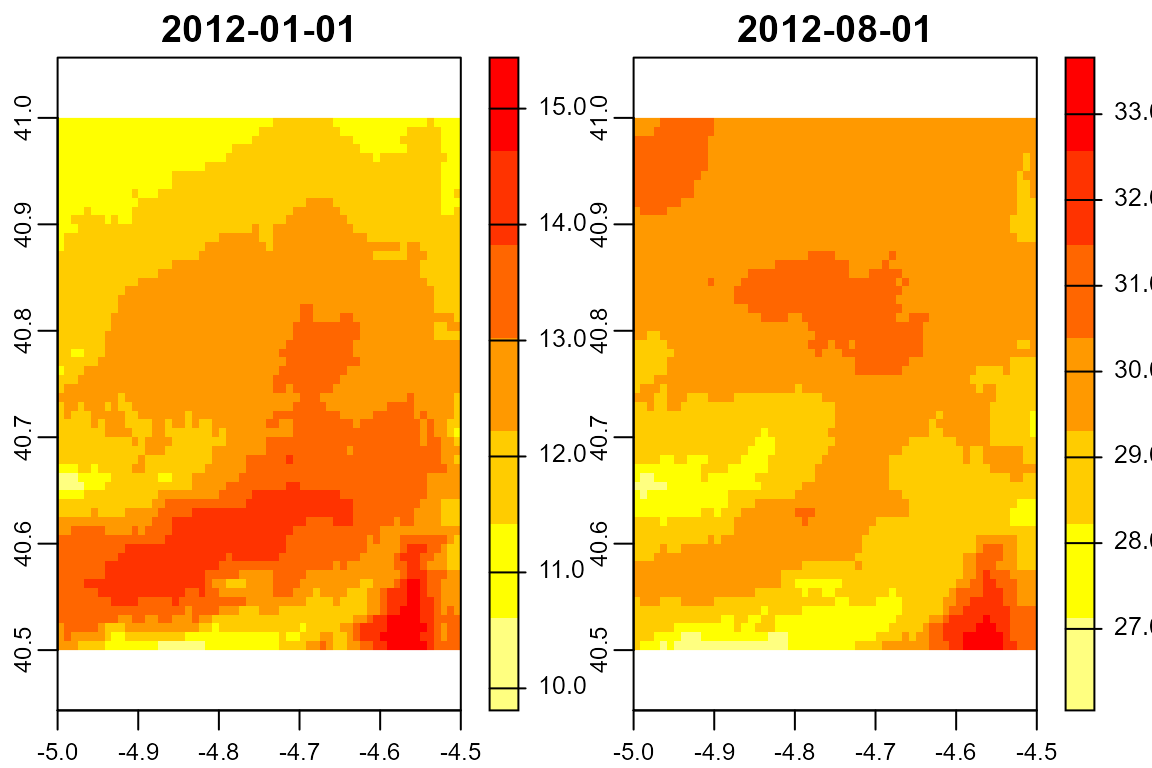
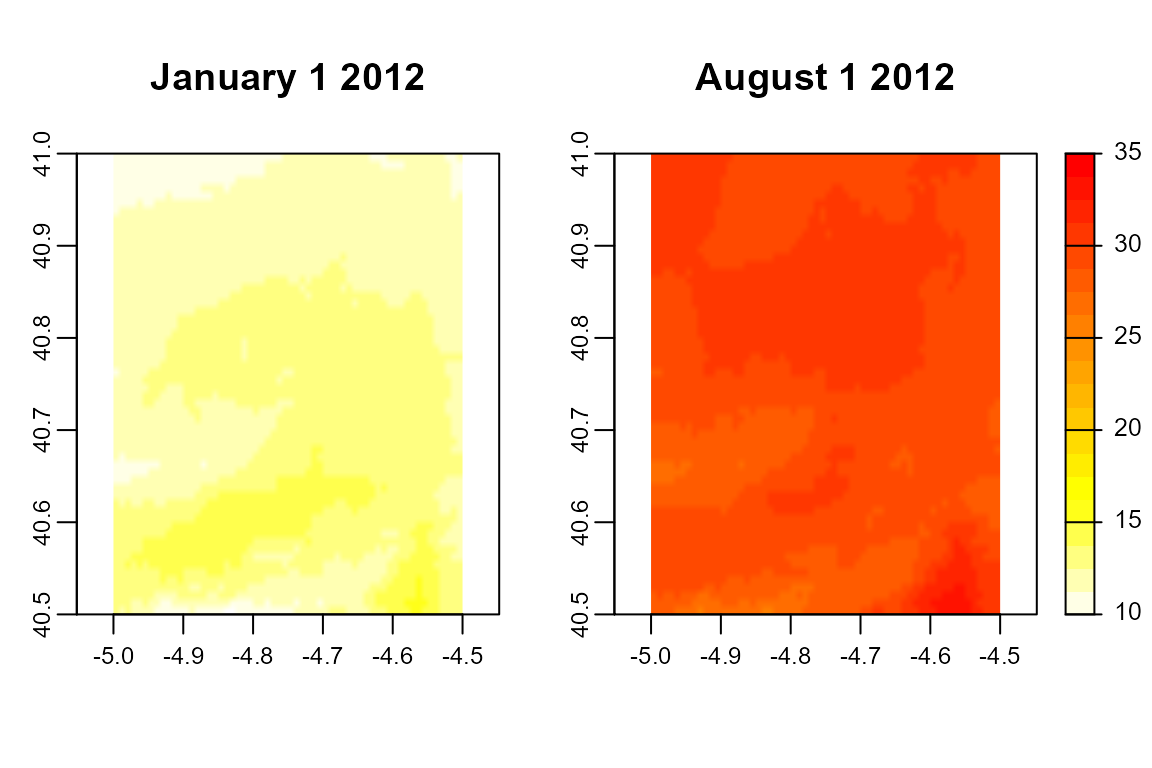
update web and check server

diff --git a/docs/articles/polygons-raster.html b/docs/articles/polygons-raster.html
@@ -95,10 +95,10 @@
 
     
     
-<p><code>easyclimate</code> aims to easily download daily climate data for a given set of points or polygons within Europe. To download and install the latest version of <code>easyclimate</code> from github follow the instructions in <a href="https://github.com/VeruGHub/easyclimate" class="uri">https://github.com/VeruGHub/easyclimate</a></p>
+<p>With <code>easyclimate</code> you can easily download daily climate data for a given set of points or polygons within Europe. To download and install the latest version of <code>easyclimate</code> from github follow the instructions in <a href="https://github.com/VeruGHub/easyclimate" class="uri">https://github.com/VeruGHub/easyclimate</a></p>
 <p><br></p>
 <p>In this tutorial we will work through the basics of using <code>easyclimate</code> with a spatial polygon.</p>
-<p>If you wish to download the climatic data of a specific region, you need to specify at least four corners of the polygon including the area and specify the type of output you want to obtain (i.e. a dataframe - “df” or a raster - “raster”). You can also provide the polygons of interest in a <code>sf</code> object.</p>
+<p>If you wish to download the climatic data of a specific region, you need to specify at least four corners of the polygon including the area and specify the type of output you want to obtain (i.e. a data frame - <code>df</code> or a raster - <code>raster</code>). You can also provide the polygons of interest in a <code>sf</code> object.</p>
 <div class="sourceCode" id="cb1"><pre class="downlit sourceCode r">
 <code class="sourceCode R"><span class="kw"><a href="https://rdrr.io/r/base/library.html">library</a></span><span class="op">(</span><span class="va"><a href="https://github.com/VeruGHub/easyclimate">easyclimate</a></span><span class="op">)</span>
 <span class="kw"><a href="https://rdrr.io/r/base/library.html">library</a></span><span class="op">(</span><span class="va"><a href="https://rspatial.org/terra">terra</a></span><span class="op">)</span>
@@ -106,7 +106,7 @@
 <span class="va">coords_t</span> <span class="op">&lt;-</span> <span class="fu"><a href="https://rdrr.io/pkg/terra/man/vect.html">vect</a></span><span class="op">(</span><span class="st">"POLYGON ((-4.5 41, -4.5 40.5, -5 40.5, -5 41))"</span><span class="op">)</span>
 
 <span class="fu"><a href="https://rdrr.io/r/base/Sys.time.html">Sys.time</a></span><span class="op">(</span><span class="op">)</span> <span class="co"># to know how much it takes to download</span>
-<span class="co">## [1] "2021-07-09 23:41:00 EDT"</span>
+<span class="co">## [1] "2021-07-12 15:48:33 EDT"</span>
 
 <span class="va">df_tmax</span> <span class="op">&lt;-</span> <span class="fu"><a href="../reference/get_daily_climate.html">get_daily_climate</a></span><span class="op">(</span>
   <span class="va">coords_t</span>,
@@ -116,7 +116,7 @@
   <span class="op">)</span>
 
 <span class="fu"><a href="https://rdrr.io/r/base/Sys.time.html">Sys.time</a></span><span class="op">(</span><span class="op">)</span>
-<span class="co">## [1] "2021-07-09 23:41:27 EDT"</span>
+<span class="co">## [1] "2021-07-12 15:48:57 EDT"</span>
 
 <span class="fu"><a href="https://rdrr.io/pkg/terra/man/headtail.html">head</a></span><span class="op">(</span><span class="va">df_tmax</span><span class="op">)</span>
 <span class="co">##   ID_coords         x        y       date Tmax</span>
@@ -126,7 +126,7 @@
 <span class="co">## 4         1 -4.970833 40.99583 2012-01-01 1074</span>
 <span class="co">## 5         1 -4.962500 40.99583 2012-01-01 1076</span>
 <span class="co">## 6         1 -4.954167 40.99583 2012-01-01 1089</span></code></pre></div>
-<p>Note that temperature is given as ºC*100 to avoid floating values. You can mutate this variable as follows:</p>
+<p>Note that temperature is given as ºC*100 to avoid floating values. You can change the unit of this variable as follows:</p>
 <div class="sourceCode" id="cb2"><pre class="downlit sourceCode r">
 <code class="sourceCode R"><span class="kw"><a href="https://rdrr.io/r/base/library.html">library</a></span><span class="op">(</span><span class="va"><a href="https://dplyr.tidyverse.org">dplyr</a></span><span class="op">)</span>
 
@@ -157,11 +157,11 @@
     <span class="fu"><a href="https://ggplot2.tidyverse.org/reference/labs.html">ylab</a></span><span class="op">(</span><span class="st">"Latitude"</span><span class="op">)</span> <span class="op">+</span> <span class="fu"><a href="https://ggplot2.tidyverse.org/reference/labs.html">xlab</a></span><span class="op">(</span><span class="st">"Longitude"</span><span class="op">)</span> <span class="op">+</span>
   <span class="fu"><a href="https://ggplot2.tidyverse.org/reference/ggtheme.html">theme_bw</a></span><span class="op">(</span><span class="op">)</span></code></pre></div>
 <p><img src="polygons-raster_files/figure-html/unnamed-chunk-3-1.png" width="576"></p>
-<p>You can directly get a (multi-layer) raster as output, if you specify output = “raster”:</p>
+<p>You can get a (multi-layer) raster directly as output, if you specify <code>output = raster</code>:</p>
 <div class="sourceCode" id="cb4"><pre class="downlit sourceCode r">
 <code class="sourceCode R">
 <span class="fu"><a href="https://rdrr.io/r/base/Sys.time.html">Sys.time</a></span><span class="op">(</span><span class="op">)</span>
-<span class="co">## [1] "2021-07-09 23:41:43 EDT"</span>
+<span class="co">## [1] "2021-07-12 15:49:18 EDT"</span>
 
 <span class="va">ras_tmax</span> <span class="op">&lt;-</span> <span class="fu"><a href="../reference/get_daily_climate.html">get_daily_climate</a></span><span class="op">(</span>
   <span class="va">coords_t</span>,
@@ -171,7 +171,7 @@
   <span class="op">)</span>
 
 <span class="fu"><a href="https://rdrr.io/r/base/Sys.time.html">Sys.time</a></span><span class="op">(</span><span class="op">)</span>
-<span class="co">## [1] "2021-07-09 23:42:08 EDT"</span>
+<span class="co">## [1] "2021-07-12 15:49:42 EDT"</span>
 
 <span class="va">ras_tmax</span>
 <span class="co">## class       : SpatRaster </span>
@@ -185,8 +185,10 @@
 <span class="co">## max values  :       1544,       3366</span>
 
 <span class="va">ras_tmax</span> <span class="op">&lt;-</span> <span class="va">ras_tmax</span><span class="op">/</span><span class="fl">100</span>
-  
-<span class="fu"><a href="https://rdrr.io/pkg/terra/man/plot.html">plot</a></span><span class="op">(</span><span class="va">ras_tmax</span>, col <span class="op">=</span> <span class="fu"><a href="https://rdrr.io/pkg/terra/man/flip.html">rev</a></span><span class="op">(</span><span class="fu"><a href="https://rdrr.io/r/grDevices/palettes.html">heat.colors</a></span><span class="op">(</span><span class="fl">7</span><span class="op">)</span><span class="op">)</span><span class="op">)</span> </code></pre></div>
+
+<span class="fu"><a href="https://rdrr.io/r/graphics/par.html">par</a></span><span class="op">(</span>mfrow <span class="op">=</span> <span class="fu"><a href="https://rdrr.io/pkg/terra/man/c.html">c</a></span><span class="op">(</span><span class="fl">1</span>, <span class="fl">2</span><span class="op">)</span><span class="op">)</span>
+<span class="fu">terra</span><span class="fu">::</span><span class="fu"><a href="https://rdrr.io/pkg/terra/man/plot.html">plot</a></span><span class="op">(</span><span class="va">ras_tmax</span>, <span class="fl">1</span>, col <span class="op">=</span> <span class="fu"><a href="https://rdrr.io/pkg/terra/man/flip.html">rev</a></span><span class="op">(</span><span class="fu"><a href="https://rdrr.io/r/grDevices/palettes.html">heat.colors</a></span><span class="op">(</span><span class="fl">20</span><span class="op">)</span><span class="op">)</span>, type <span class="op">=</span> <span class="st">"continuous"</span>, smooth <span class="op">=</span> <span class="cn">TRUE</span>, range <span class="op">=</span> <span class="fu"><a href="https://rdrr.io/pkg/terra/man/c.html">c</a></span><span class="op">(</span><span class="fl">10</span>, <span class="fl">35</span><span class="op">)</span>, legend <span class="op">=</span> <span class="cn">FALSE</span>, mar<span class="op">=</span><span class="fu"><a href="https://rdrr.io/pkg/terra/man/c.html">c</a></span><span class="op">(</span><span class="fl">4</span>, <span class="fl">2</span>, <span class="fl">4</span>, <span class="fl">2</span><span class="op">)</span>, main <span class="op">=</span> <span class="st">"January 1 2012"</span><span class="op">)</span>
+<span class="fu">terra</span><span class="fu">::</span><span class="fu"><a href="https://rdrr.io/pkg/terra/man/plot.html">plot</a></span><span class="op">(</span><span class="va">ras_tmax</span>, <span class="fl">2</span>, col <span class="op">=</span> <span class="fu"><a href="https://rdrr.io/pkg/terra/man/flip.html">rev</a></span><span class="op">(</span><span class="fu"><a href="https://rdrr.io/r/grDevices/palettes.html">heat.colors</a></span><span class="op">(</span><span class="fl">20</span><span class="op">)</span><span class="op">)</span>, type <span class="op">=</span> <span class="st">"continuous"</span>, smooth <span class="op">=</span> <span class="cn">TRUE</span>, range <span class="op">=</span> <span class="fu"><a href="https://rdrr.io/pkg/terra/man/c.html">c</a></span><span class="op">(</span><span class="fl">10</span>, <span class="fl">35</span><span class="op">)</span>, mar <span class="op">=</span> <span class="fu"><a href="https://rdrr.io/pkg/terra/man/c.html">c</a></span><span class="op">(</span><span class="fl">4</span>, <span class="fl">1</span>, <span class="fl">4</span>, <span class="fl">3</span><span class="op">)</span>, main <span class="op">=</span> <span class="st">"August 1 2012"</span><span class="op">)</span> </code></pre></div>
 <p><img src="polygons-raster_files/figure-html/unnamed-chunk-4-1.png" width="576"></p>
 <p><br></p>
 <div id="learn-more" class="section level2">

diff --git a/docs/index.html b/docs/index.html
@@ -98,7 +98,7 @@
 <a href="#easy-access-to-high-resolution-daily-climate-data-for-europe" class="anchor"></a>Easy access to high-resolution daily climate data for Europe</h1>
 <!-- badges: start -->
 
-<p>Easily get high-resolution (1 km) daily climate data (precipitation, minimum and maximum temperatures) across Europe from 1950 to 2017, from the European climatic database hosted at <a href="ftp://palantir.boku.ac.at/Public/ClimateData/" class="uri">ftp://palantir.boku.ac.at/Public/ClimateData/</a>.</p>
+<p>Get high-resolution (1 km) daily climate data (precipitation, minimum and maximum temperatures) for Europe from the European climatic database hosted at <a href="ftp://palantir.boku.ac.at/Public/ClimateData/" class="uri">ftp://palantir.boku.ac.at/Public/ClimateData/</a>. Data are available from 1950 to 2017.</p>
 <p>This climatic dataset was originally built by <a href="https://doi.org/10.1002/joc.4436">A. Moreno &amp; H. Hasenauer</a> and further developed by W. Rammer, C. Pucher &amp; M. Neumann from the University of Natural Resources and Life Sciences, Vienna, Austria. Please, check <a href="https://github.com/VeruGHub/easyclimate/tree/master/inst/Description_Evaluation_Validation_Downscaled_Climate_Data_v2.pdf">this document</a> for more details on the development and characteristics of the climatic dataset.</p>
 <div id="installation" class="section level2">
 <h2 class="hasAnchor">
@@ -110,7 +110,7 @@
 <div id="examples" class="section level2">
 <h2 class="hasAnchor">
 <a href="#examples" class="anchor"></a>Examples</h2>
-<p>Obtaining a data frame with daily climatic values for point coordinates:</p>
+<p>To obtain a data frame of daily climatic values for point coordinates:</p>
 <div class="sourceCode" id="cb2"><pre class="downlit sourceCode r">
 <code class="sourceCode R"><span class="kw"><a href="https://rdrr.io/r/base/library.html">library</a></span><span class="op">(</span><span class="va"><a href="https://github.com/VeruGHub/easyclimate">easyclimate</a></span><span class="op">)</span>
 
@@ -152,7 +152,7 @@
 </tbody>
 </table>
 <p><br></p>
-<p>Obtaining a (multi-layer) raster with daily climatic values for an area:</p>
+<p>To obtain a (multi-layer) raster of daily climatic values for an area:</p>
 <div class="sourceCode" id="cb3"><pre class="downlit sourceCode r">
 <code class="sourceCode R"><span class="kw"><a href="https://rdrr.io/r/base/library.html">library</a></span><span class="op">(</span><span class="va"><a href="https://rspatial.org/terra">terra</a></span><span class="op">)</span>
 <span class="kw"><a href="https://rdrr.io/r/base/library.html">library</a></span><span class="op">(</span><span class="va"><a href="https://ggplot2.tidyverse.org">ggplot2</a></span><span class="op">)</span>
@@ -168,28 +168,11 @@
   output <span class="op">=</span> <span class="st">"raster"</span> <span class="co"># return raster</span>
   <span class="op">)</span>
 
-<span class="va">ras_tmax</span>
-<span class="co">#&gt; class       : SpatRaster </span>
-<span class="co">#&gt; dimensions  : 60, 60, 2  (nrow, ncol, nlyr)</span>
-<span class="co">#&gt; resolution  : 0.008333333, 0.008333333  (x, y)</span>
-<span class="co">#&gt; extent      : -5, -4.5, 40.5, 41  (xmin, xmax, ymin, ymax)</span>
-<span class="co">#&gt; coord. ref. : +proj=longlat +datum=WGS84 +no_defs </span>
-<span class="co">#&gt; source      : memory </span>
-<span class="co">#&gt; names       : 2012-01-01, 2012-08-01 </span>
-<span class="co">#&gt; min values  :        981,       2605 </span>
-<span class="co">#&gt; max values  :       1544,       3366</span>
+<span class="va">ras_tmax</span> <span class="op">&lt;-</span> <span class="va">ras_tmax</span><span class="op">/</span><span class="fl">100</span>
 
-<span class="va">ras_tmax_df</span> <span class="op">&lt;-</span> <span class="fu">terra</span><span class="fu">::</span><span class="fu"><a href="https://rdrr.io/pkg/terra/man/as.data.frame.html">as.data.frame</a></span><span class="op">(</span><span class="va">ras_tmax</span>, xy <span class="op">=</span> <span class="cn">TRUE</span><span class="op">)</span>
-<span class="va">ras_tmax_df</span> <span class="op">&lt;-</span> <span class="va">ras_tmax_df</span> <span class="op">%&gt;%</span> 
-  <span class="fu"><a href="https://tidyr.tidyverse.org/reference/pivot_longer.html">pivot_longer</a></span><span class="op">(</span>cols <span class="op">=</span> <span class="fu"><a href="https://rdrr.io/pkg/terra/man/c.html">c</a></span><span class="op">(</span><span class="st">"X2012.01.01"</span>, <span class="st">"X2012.08.01"</span><span class="op">)</span>, names_to <span class="op">=</span> <span class="st">"date"</span>, values_to <span class="op">=</span> <span class="st">"tmax"</span><span class="op">)</span> <span class="op">%&gt;%</span> 
-  <span class="fu"><a href="https://dplyr.tidyverse.org/reference/mutate.html">mutate</a></span><span class="op">(</span>tmax <span class="op">=</span> <span class="va">tmax</span><span class="op">/</span><span class="fl">100</span><span class="op">)</span>
-  
-<span class="fu"><a href="https://ggplot2.tidyverse.org/reference/ggplot.html">ggplot</a></span><span class="op">(</span><span class="va">ras_tmax_df</span><span class="op">)</span> <span class="op">+</span>
-  <span class="fu"><a href="https://ggplot2.tidyverse.org/reference/geom_tile.html">geom_raster</a></span><span class="op">(</span><span class="fu"><a href="https://ggplot2.tidyverse.org/reference/aes.html">aes</a></span><span class="op">(</span>x <span class="op">=</span> <span class="va">x</span>, y <span class="op">=</span> <span class="va">y</span>, fill <span class="op">=</span> <span class="va">tmax</span><span class="op">)</span><span class="op">)</span> <span class="op">+</span>
-  <span class="fu"><a href="https://ggplot2.tidyverse.org/reference/facet_wrap.html">facet_wrap</a></span><span class="op">(</span><span class="op">~</span><span class="va">date</span><span class="op">)</span> <span class="op">+</span>
-  <span class="fu"><a href="https://ggplot2.tidyverse.org/reference/scale_colour_continuous.html">scale_fill_continuous</a></span><span class="op">(</span>type <span class="op">=</span> <span class="st">"viridis"</span>, name <span class="op">=</span> <span class="st">"Maximum\ntemperature (ºC)"</span><span class="op">)</span> <span class="op">+</span>
-  <span class="fu"><a href="https://ggplot2.tidyverse.org/reference/coord_fixed.html">coord_fixed</a></span><span class="op">(</span>ratio <span class="op">=</span> <span class="fl">1</span><span class="op">)</span> <span class="op">+</span>
-  <span class="fu"><a href="https://ggplot2.tidyverse.org/reference/ggtheme.html">theme_bw</a></span><span class="op">(</span><span class="op">)</span></code></pre></div>
+<span class="fu"><a href="https://rdrr.io/r/graphics/par.html">par</a></span><span class="op">(</span>mfrow <span class="op">=</span> <span class="fu"><a href="https://rdrr.io/pkg/terra/man/c.html">c</a></span><span class="op">(</span><span class="fl">1</span>, <span class="fl">2</span><span class="op">)</span><span class="op">)</span>
+<span class="fu">terra</span><span class="fu">::</span><span class="fu"><a href="https://rdrr.io/pkg/terra/man/plot.html">plot</a></span><span class="op">(</span><span class="va">ras_tmax</span>, <span class="fl">1</span>, col <span class="op">=</span> <span class="fu"><a href="https://rdrr.io/pkg/terra/man/flip.html">rev</a></span><span class="op">(</span><span class="fu"><a href="https://rdrr.io/r/grDevices/palettes.html">heat.colors</a></span><span class="op">(</span><span class="fl">20</span><span class="op">)</span><span class="op">)</span>, type <span class="op">=</span> <span class="st">"continuous"</span>, smooth <span class="op">=</span> <span class="cn">TRUE</span>, range <span class="op">=</span> <span class="fu"><a href="https://rdrr.io/pkg/terra/man/c.html">c</a></span><span class="op">(</span><span class="fl">10</span>, <span class="fl">35</span><span class="op">)</span>, legend <span class="op">=</span> <span class="cn">FALSE</span>, mar<span class="op">=</span><span class="fu"><a href="https://rdrr.io/pkg/terra/man/c.html">c</a></span><span class="op">(</span><span class="fl">4</span>, <span class="fl">2</span>, <span class="fl">4</span>, <span class="fl">2</span><span class="op">)</span>, main <span class="op">=</span> <span class="st">"January 1 2012"</span><span class="op">)</span>
+<span class="fu">terra</span><span class="fu">::</span><span class="fu"><a href="https://rdrr.io/pkg/terra/man/plot.html">plot</a></span><span class="op">(</span><span class="va">ras_tmax</span>, <span class="fl">2</span>, col <span class="op">=</span> <span class="fu"><a href="https://rdrr.io/pkg/terra/man/flip.html">rev</a></span><span class="op">(</span><span class="fu"><a href="https://rdrr.io/r/grDevices/palettes.html">heat.colors</a></span><span class="op">(</span><span class="fl">20</span><span class="op">)</span><span class="op">)</span>, type <span class="op">=</span> <span class="st">"continuous"</span>, smooth <span class="op">=</span> <span class="cn">TRUE</span>, range <span class="op">=</span> <span class="fu"><a href="https://rdrr.io/pkg/terra/man/c.html">c</a></span><span class="op">(</span><span class="fl">10</span>, <span class="fl">35</span><span class="op">)</span>, mar <span class="op">=</span> <span class="fu"><a href="https://rdrr.io/pkg/terra/man/c.html">c</a></span><span class="op">(</span><span class="fl">4</span>, <span class="fl">1</span>, <span class="fl">4</span>, <span class="fl">3</span><span class="op">)</span>, main <span class="op">=</span> <span class="st">"August 1 2012"</span><span class="op">)</span></code></pre></div>
 <p><img src="reference/figures/README-unnamed-chunk-3-1.png" width="100%"></p>
 <p><br> Visit the articles of the package website for more extended tutorials!</p>
 <p><br></p>

diff --git a/docs/articles/points-df-mat-sf.html b/docs/articles/points-df-mat-sf.html
@@ -96,9 +96,9 @@
     
     
 <pre><code>## Warning: package 'knitr' was built under R version 4.0.5</code></pre>
-<p><code>easyclimate</code> aims to easily download daily climate data for a given set of points or polygons within Europe. To download and install the latest version of <code>easyclimate</code> from github follow the instructions in <a href="https://github.com/VeruGHub/easyclimate" class="uri">https://github.com/VeruGHub/easyclimate</a></p>
+<p>With <code>easyclimate</code> you can easily download daily climate data for a given set of points or polygons within Europe. To download and install the latest version of <code>easyclimate</code> from github follow the instructions in <a href="https://github.com/VeruGHub/easyclimate" class="uri">https://github.com/VeruGHub/easyclimate</a></p>
 <p><br></p>
-<p>In this tutorial we will work through the basics of using easyclimate with coordinate points. You can enter coordinates as a <code>data.frame</code>, <code>matrix</code>, or <code>sf</code> object. At the end we will get a data frame with climatic variables for our points.</p>
+<p>In this tutorial we will work through the basics of using easyclimate with coordinate points. You can enter coordinates as a <code>data.frame</code>, <code>matrix</code>, or <code>sf</code> object. At the end we will have a data frame with climate variables for each point.</p>
 <p><br></p>
 <div id="example-1-introducing-coordinates-as-a-data-frame" class="section level1">
 <h1 class="hasAnchor">
@@ -123,7 +123,7 @@
   <span class="fu"><a href="https://ggplot2.tidyverse.org/reference/ggtheme.html">theme_bw</a></span><span class="op">(</span><span class="op">)</span></code></pre></div>
 <p><img src="points-df-mat-sf_files/figure-html/unnamed-chunk-1-1.png" width="576"></p>
 <p><br></p>
-<p>Now, download the climatic data for the selected locations. It is very simple, all you have to do is use the function <code>get_daily_climate</code>, specify the period (e.g. <code>2008-05-25</code> for a single day or <code>2008:2010</code> for several years), and the variables to be downloaded (precipitation <code>Prcp</code>, minimum temperatures <code>Tmin</code> or maximum temperatures <code>Tmax</code>).</p>
+<p>Now, download the climatic data for the selected locations. It is very simple, all you have to do is use the function <code>get_daily_climate</code>, specify the period (e.g. <code>2008-05-25</code> for a single day or <code>2008:2010</code> for several years), and the variables to be downloaded (precipitation <code>Prcp</code>, minimum temperature <code>Tmin</code> or maximum temperature <code>Tmax</code>).</p>
 <div class="sourceCode" id="cb3"><pre class="downlit sourceCode r">
 <code class="sourceCode R">
 <span class="fu"><a href="https://rdrr.io/r/base/Sys.time.html">Sys.time</a></span><span class="op">(</span><span class="op">)</span> <span class="co"># to know how much it takes to download</span>
@@ -158,7 +158,7 @@
 <span class="co">## 4 -5.836705 37.42518 2008-01-04    0</span>
 <span class="co">## 5 -5.836705 37.42518 2008-01-05    0</span>
 <span class="co">## 6 -5.836705 37.42518 2008-01-06    0</span></code></pre></div>
-<p>Temperature and precipitation units are ºC*100 and mm*100 to avoid floating values. You can mutate them and join all the variables in a data frame.</p>
+<p>Temperature and precipitation units are ºC*100 and mm*100, respectively, to avoid floating values. You can change the units using the mutate function and join all the variables in a data frame.</p>
 <div class="sourceCode" id="cb4"><pre class="downlit sourceCode r">
 <code class="sourceCode R">
 <span class="va">prcp_date</span> <span class="op">&lt;-</span> <span class="va">df_prcp</span> <span class="op">%&gt;%</span>
@@ -278,7 +278,7 @@
   <span class="fu"><a href="https://ggplot2.tidyverse.org/reference/ggtheme.html">theme_bw</a></span><span class="op">(</span><span class="op">)</span></code></pre></div>
 <p><img src="points-df-mat-sf_files/figure-html/unnamed-chunk-4-1.png" width="576"></p>
 <p><br></p>
-<p>Or let’s calculate daily mean temperature and plot it along with <code>tmin</code> and <code>tmax</code>:</p>
+<p>Or calculate the daily mean temperature and plot it against <code>tmin</code> and <code>tmax</code>:</p>
 <div class="sourceCode" id="cb6"><pre class="downlit sourceCode r">
 <code class="sourceCode R"><span class="kw"><a href="https://rdrr.io/r/base/library.html">library</a></span><span class="op">(</span><span class="va"><a href="https://tidyr.tidyverse.org">tidyr</a></span><span class="op">)</span>
 
@@ -401,7 +401,7 @@
 <div id="learn-more" class="section level2">
 <h2 class="hasAnchor">
 <a href="#learn-more" class="anchor"></a>Learn more</h2>
-<p>Now you know how to extract a dataframe with different climatic variables with <code>easyclimate</code>, using point coordinates in different formats and downloading data from multiple locations and periods. Check out this <a href="https://verughub.github.io/easyclimate/articles/polygons-raster.html">other vignette</a> if you need to extract the data of a complete area.</p>
+<p>Now you know how to extract a data frame with different climatic variables with <code>easyclimate</code>, using point coordinates in different formats and downloading data for multiple locations and periods. Check out this <a href="https://verughub.github.io/easyclimate/articles/polygons-raster.html">other vignette</a> if you need to extract the data of a complete area.</p>
 </div>
 </div>
   </div>

diff --git a/docs/articles/climatic-indices.html b/docs/articles/climatic-indices.html
@@ -118,7 +118,7 @@
 <span class="va">daily</span> <span class="op">&lt;-</span> <span class="va">prec</span> <span class="op">%&gt;%</span> 
   <span class="fu"><a href="https://dplyr.tidyverse.org/reference/mutate-joins.html">full_join</a></span><span class="op">(</span><span class="va">tmin</span><span class="op">)</span> <span class="op">%&gt;%</span> 
   <span class="fu"><a href="https://dplyr.tidyverse.org/reference/mutate-joins.html">full_join</a></span><span class="op">(</span><span class="va">tmax</span><span class="op">)</span> </code></pre></div>
-<p>Temperature and precipitation units are ºC*100 and mm*100 to avoid floating values. Here we convert them to ºC and mm, and calculate daily mean temperature:</p>
+<p>Temperature and precipitation units are ºC*100 and mm*100, respectively, to avoid floating values. Here we convert them to ºC and mm, and calculate the daily mean temperature:</p>
 <div class="sourceCode" id="cb2"><pre class="downlit sourceCode r">
 <code class="sourceCode R"><span class="va">realvalue</span> <span class="op">&lt;-</span> <span class="kw">function</span><span class="op">(</span><span class="va">x</span><span class="op">)</span> <span class="op">{</span><span class="va">x</span><span class="op">/</span><span class="fl">100</span><span class="op">}</span>
 
@@ -281,7 +281,7 @@
 </tr>
 </tbody>
 </table>
-<p>Similarly, you can calculate accumulated precipitations over different time periods:</p>
+<p>Similarly, you can calculate accumulated precipitation over different time periods:</p>
 <div class="sourceCode" id="cb5"><pre class="downlit sourceCode r">
 <code class="sourceCode R"><span class="va">daily</span> <span class="op">%&gt;%</span> 
   <span class="fu"><a href="https://dplyr.tidyverse.org/reference/group_by.html">group_by</a></span><span class="op">(</span><span class="va">year</span><span class="op">)</span> <span class="op">%&gt;%</span> 
@@ -382,7 +382,7 @@
 <div id="climatic-anomalies" class="section level2">
 <h2 class="hasAnchor">
 <a href="#climatic-anomalies" class="anchor"></a>Climatic anomalies</h2>
-<p>Sometimes it can be useful to calculate the deviation of climatic values from a reference period. For example, considering all the data downloaded as the reference period, you could calculate the deviations per site and year as follows:</p>
+<p>Sometimes it can be useful to calculate the deviation of climate values from a value from a reference period. For example, if we consider as the reference the mean value for the period 2001-2005, we can calculate the deviations per site and year as follows:</p>
 <div class="sourceCode" id="cb7"><pre class="downlit sourceCode r">
 <code class="sourceCode R">
 <span class="va">daily</span> <span class="op">%&gt;%</span>   
@@ -699,7 +699,7 @@
 <h2 class="hasAnchor">
 <a href="#using-climind-in-combination-with-easyclimate" class="anchor"></a>Using ClimInd in combination with easyclimate</h2>
 <p>The package <a href="https://cran.r-project.org/package=ClimInd"><code>climInd</code></a> can be used to calculate multiple climatic indices from data obtained through <code>easyclimate</code>. For example:</p>
-<p><br> Number of days with temperature &gt; 32ºC in summer (June-August):</p>
+<p><br> Number of days with maximum temperature &gt; 32ºC in summer (June-August):</p>
 <div class="sourceCode" id="cb12"><pre class="downlit sourceCode r">
 <code class="sourceCode R"><span class="kw"><a href="https://rdrr.io/r/base/library.html">library</a></span><span class="op">(</span><span class="va"><a href="https://gitlab.com/indecis-eu/indecis">ClimInd</a></span><span class="op">)</span>
 
@@ -739,7 +739,7 @@
 <div id="learn-more" class="section level2">
 <h2 class="hasAnchor">
 <a href="#learn-more" class="anchor"></a>Learn more</h2>
-<p>For learning all the details about downloading daily climatic data, please consult <a href="https://verughub.github.io/easyclimate/articles/points-df-mat-sf.html">this vignette</a> for point coordinates, or <a href="https://verughub.github.io/easyclimate/articles/polygons-raster.html">this other</a> if you need to extract data for several polygons or a region.</p>
+<p>To learn more about downloading daily climatic data, please consult <a href="https://verughub.github.io/easyclimate/articles/points-df-mat-sf.html">this vignette</a> for point coordinates, or <a href="https://verughub.github.io/easyclimate/articles/polygons-raster.html">this other</a> if you need to extract data for several polygons or a region.</p>
 </div>
   </div>
 
